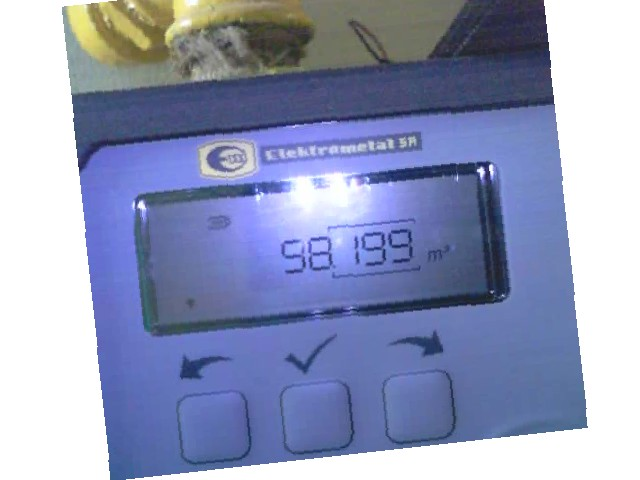
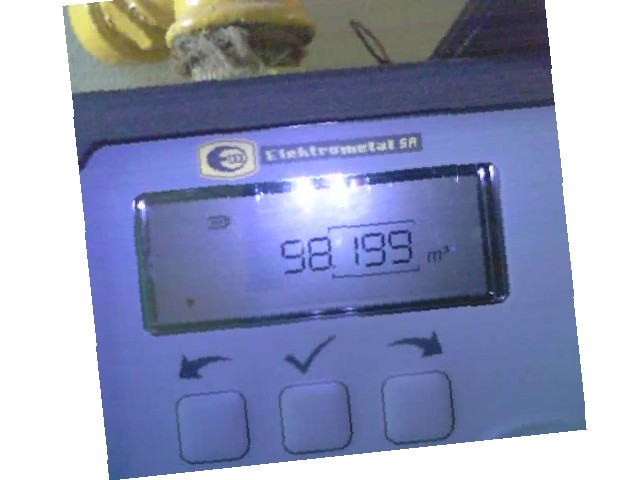
Automatyczna aktualizacja strony i danych

diff --git a/index.html b/index.html
@@ -35,11 +35,11 @@
 <body>
     <div class="container">
         <h1>Bieżący Stan Licznika</h1>
-        <div class="status">Ostatnia aktualizacja danych:<br><span class="timestamp">2026-10-27 11:53:39</span></div>
+        <div class="status">Ostatnia aktualizacja danych:<br><span class="timestamp">2026-10-27 11:59:06</span></div>
         <div class="odczyt">93498 m³</div>
         <div class="uwaga">Ostatni odczyt się nie powiódł, wyświetlana jest poprzednia poprawna wartość.</div>
         <h3>Aktualne zdjęcie z gazomierza:</h3>
-        <img src="img_tmp/alg.jpg?t=1793098419" alt="Zdjęcie licznika">
+        <img src="img_tmp/alg.jpg?t=1793098746" alt="Zdjęcie licznika">
     </div>
 </body>
 </html>
